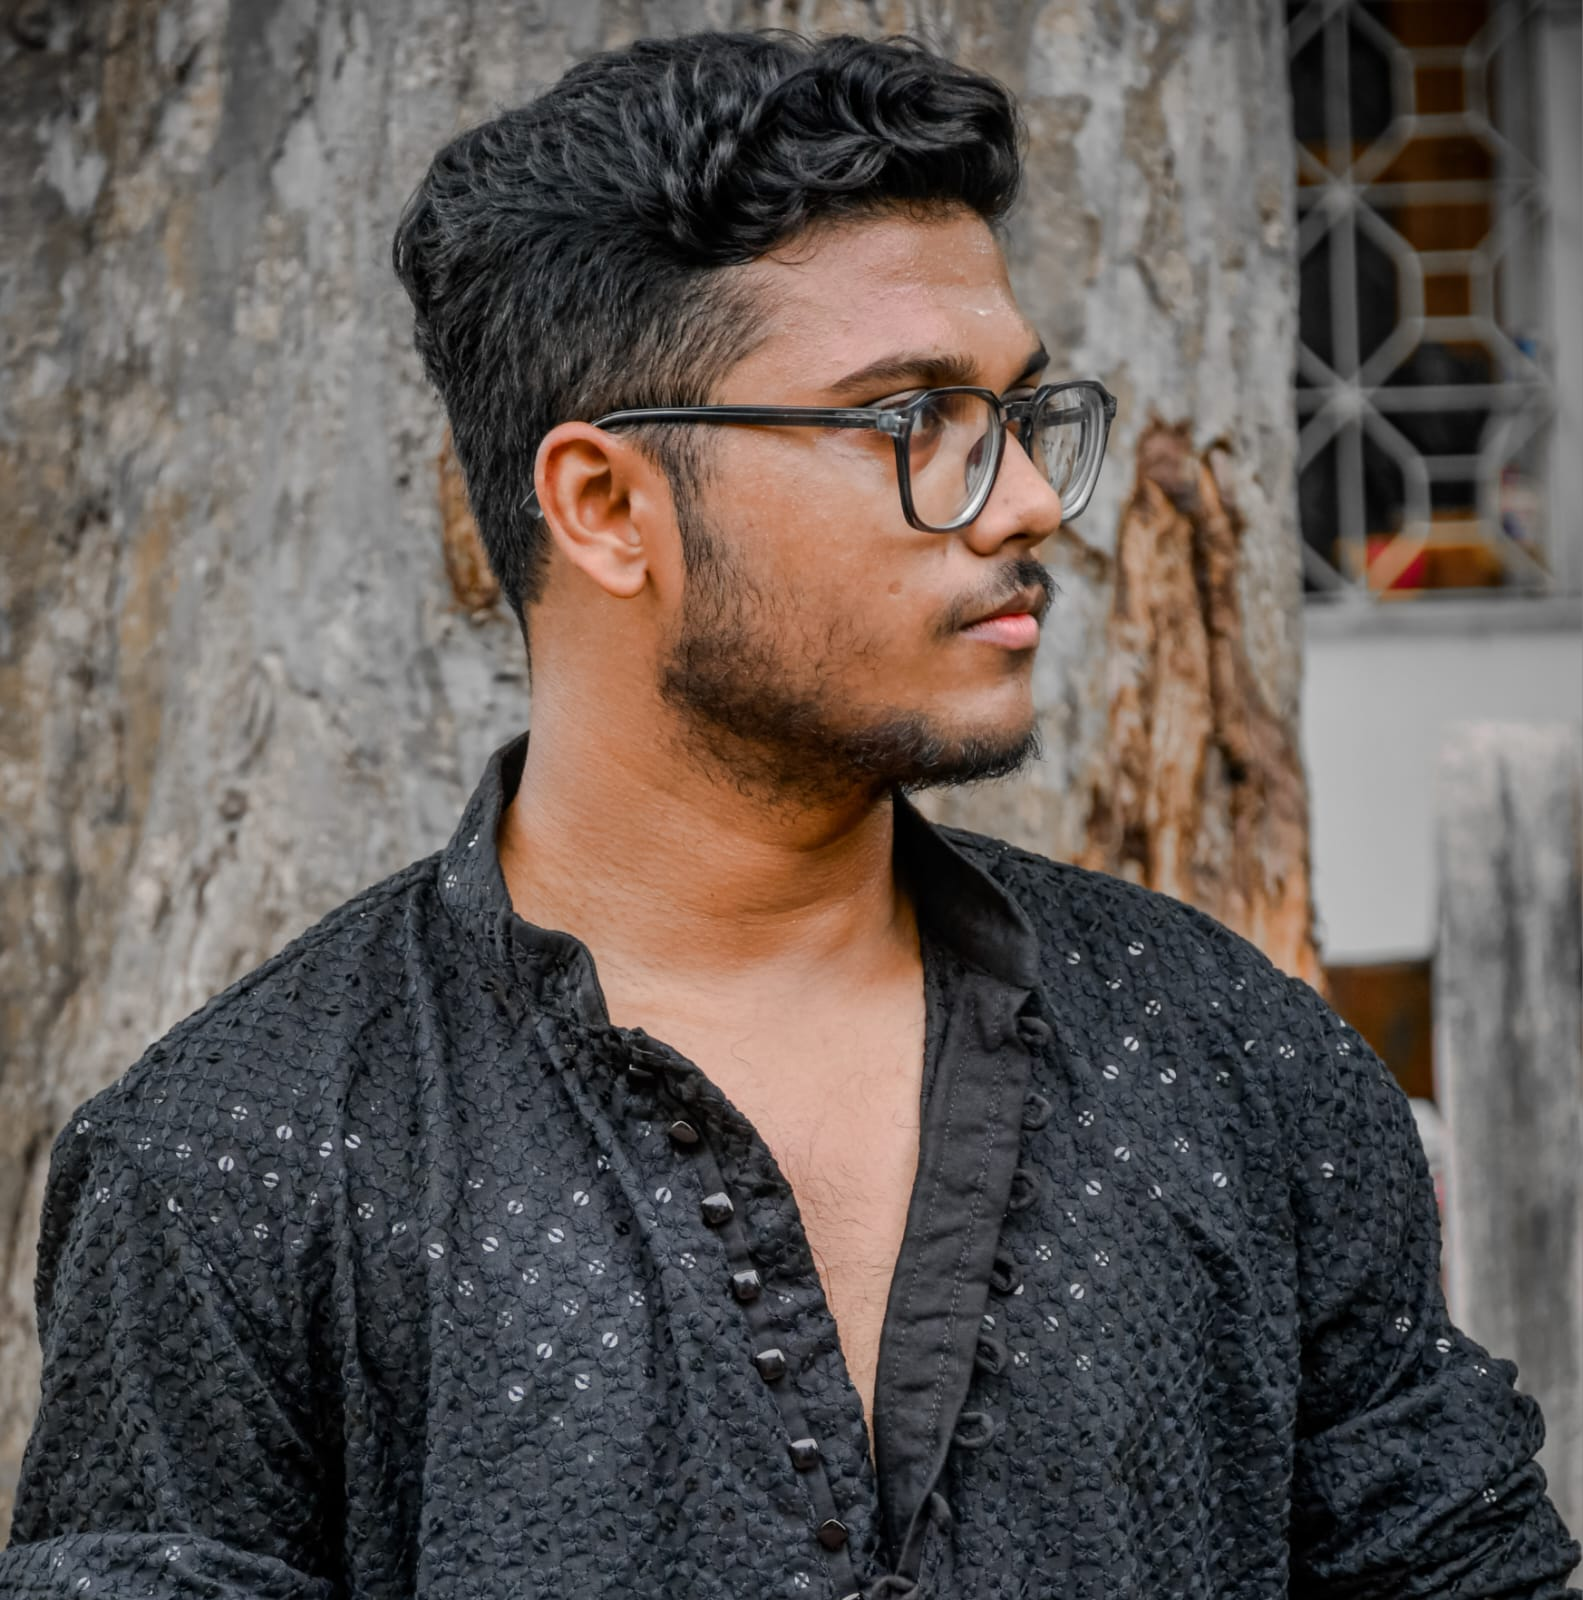
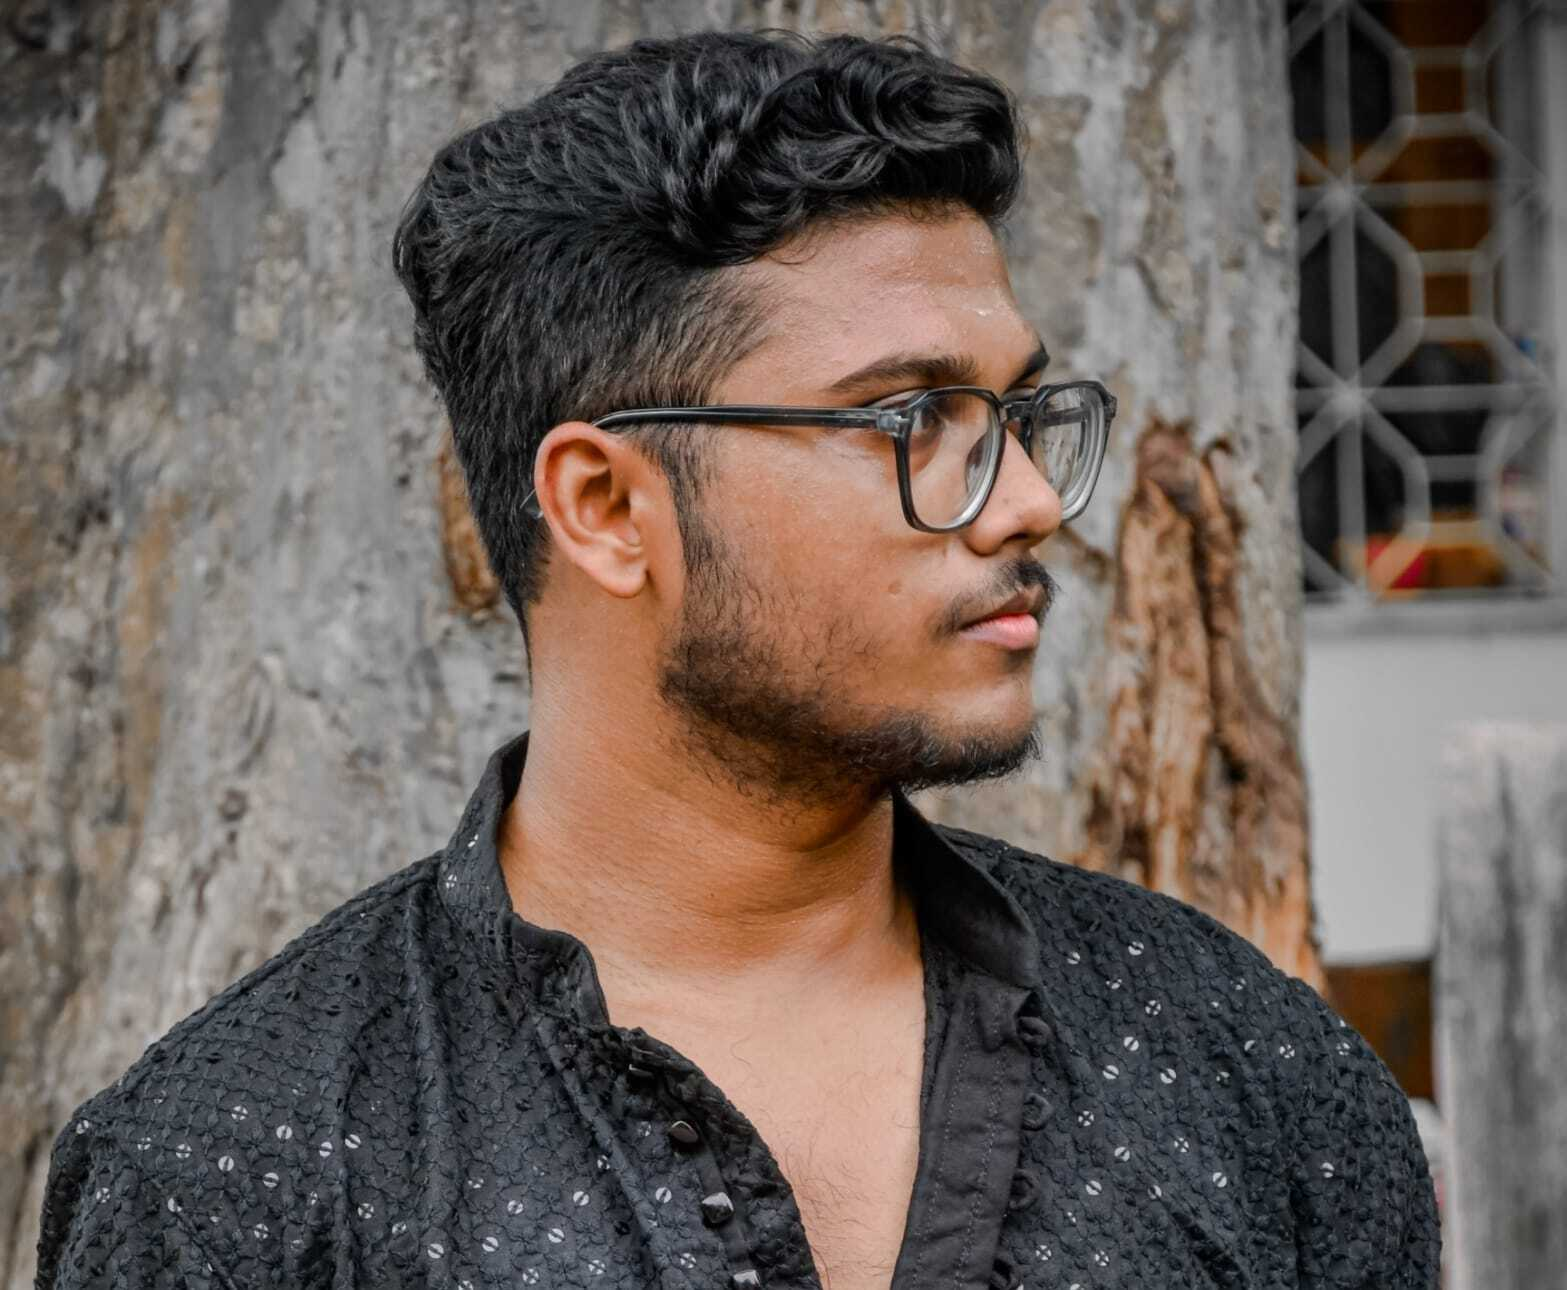
improving developer section

diff --git a/frontDev/frontDev/src/App.jsx b/frontDev/frontDev/src/App.jsx
@@ -55,7 +55,7 @@ function DevelopersSection() {
   return (
     <div className="developers-page" style={{ padding: '4rem 0', textAlign: 'center' }}>
       <p className="eyebrow">The minds behind TongueBridge</p>
-      <h1 style={{ fontSize: '3.5rem', marginBottom: '1.5rem', background: 'var(--accent-gradient)', WebkitBackgroundClip: 'text', WebkitTextFillColor: 'transparent' }}>
+      <h1 style={{ fontSize: '3.5rem', marginBottom: '1.5rem', background: 'linear-gradient(90deg, #f5f5f5)', WebkitBackgroundClip: 'text', WebkitTextFillColor: 'transparent', textShadow: '0 0 20px rgba(255, 138, 61, 0.4)' }}>
         Meet the Developers
       </h1>
       <p className="lead" style={{ maxWidth: '600px', margin: '0 auto 4rem' }}>
@@ -68,11 +68,11 @@ function DevelopersSection() {
           <article key={index} style={{ display: 'flex', flexDirection: 'column', alignItems: 'center', gap: '1rem', minWidth: '280px', padding: '2rem', background: 'var(--bg-secondary)', borderRadius: 'var(--radius-lg)', border: '1px solid var(--surface-border)' }}>
             
             {/* Developer Image */}
-            <div style={{ padding: '4px', background: 'var(--accent-gradient)', borderRadius: '50%' }}>
+            <div style={{ padding: '4px', background: 'var(--accent-gradient)', borderRadius: '60%', overflow: 'hidden' }}>
               <img 
                 src={member.image} 
                 alt={member.name} 
-                style={{ width: '120px', height: '120px', borderRadius: '50%', objectFit: 'cover', display: 'block', border: '4px solid var(--bg-secondary)' }}
+                style={{ width: '120px', height: '120px', borderRadius: '50%', objectFit: 'cover', objectPosition: 'center', transform: 'scale(1.3)', display: 'block', border: '4px solid var(--bg-secondary)' }}
               />
             </div>
 
@@ -101,7 +101,7 @@ function DevelopersSection() {
 
       <div className="note" style={{ marginTop: '4rem', display: 'inline-block', textAlign: 'left' }}>
         <h4>Want to collaborate?</h4>
-        <p>We are always open to feedback and collaboration. Check out our GitHub repositories above!</p>
+        <p>We are always open to feedback and collaboration. Check out our GitHub repositories above !</p>
       </div>
     </div>
   );
